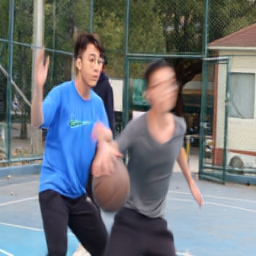
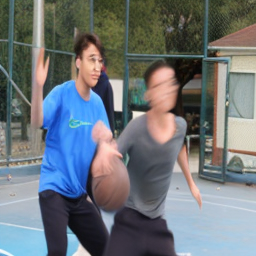
try increase matmul precision

diff --git a/rqvae/models/klvae/__init__.py b/rqvae/models/klvae/__init__.py
@@ -1,28 +1,31 @@
 from diffusers import AutoencoderKL
 from ..interfaces import *
 class Stage1_KLVAE(Stage1Model):
-    def __init__(self, ckpt_path:str):
+    def __init__(self, ckpt_path:str, sample:bool = True):
         super().__init__()
         #ckpt_path = f'stabilityai/sd-vae-ft-{vae_type}'
         vae = AutoencoderKL.from_pretrained(ckpt_path)
         vae: AutoencoderKL
         self.vae = vae
+        self.sample = sample
     def forward(self, inputs: LabeledImageData):
         x = inputs.img
-        x = x.mul_(2).sub_(1)
-        x = self.vae(x).sample
-        x = x.mul_(0.5).add_(0.5)
+        x = x * 2 - 1
+        x = self.vae(x).sample 
+        x = x * .5 + .5
         return Stage1ModelOutput(xs_recon=x, additional_attr={})
     def encode(self, inputs: LabeledImageData):
         x = inputs.img
-        x = x.mul_(2).sub_(1)
-        x = self.vae.encode(x).latent_dist.sample().mul_(0.18215)
+        x = x * 2 - 1
+        x = self.vae.encode(x).latent_dist
+        x = x.sample() if self.sample else x.mean
+        x = x * .18215
         return Stage1Encodings(zs=x, additional_attr={})
     def decode(self, outputs: Stage1Encodings):
         z = outputs.zs if isinstance(outputs, Stage1Encodings) else outputs.zs_pred
-        z = z.div_(0.18215)
+        z = z / .18215
         x = self.vae.decode(z).sample
-        x = x.mul_(0.5).add_(0.5)
+        x = x * .5 + .5
         return Stage1ModelOutput(xs_recon=x, additional_attr={})
     def get_last_layer(self):
         return self.vae.decoder.conv_out.weight

diff --git a/sanity_check/stage1_connect.py b/sanity_check/stage1_connect.py
@@ -36,8 +36,10 @@ with torch.no_grad():
     print(last_layer.shape, last_layer.dtype, last_layer.min(), last_layer.max())
     print("=" * 10, 'testing wrapper forward', "=" * 10)
     forward_output = stage1_model_wrapper.forward(data)
-    print(forward_output.xs_recon.shape, forward_output.xs_recon.min(), forward_output.xs_recon.max())
-    print("=" * 10, 'testing forward', "=" * 10)
+    print('forward xs recon (saved in visuals/sanity_forward_recon.png ):', forward_output.xs_recon.shape, forward_output.xs_recon.min(), forward_output.xs_recon.max())
+    recon_image = ToPILImage()(forward_output.xs_recon[0].clamp(0., 1.))
+    recon_image.save('./visuals/sanity_forward_recon.png')
+    print("=" * 10, 'testing stage1 model forward', "=" * 10)
     output = stage1_model.forward(data)
     print(f'forward xs recon: shape: {output.xs_recon.shape}, min: {output.xs_recon.min()}, max: {output.xs_recon.max()} mean: {output.xs_recon.mean()} norm: {output.xs_recon.norm()}')
     print("=" * 10, 'testing encoding', "=" * 10)
@@ -53,7 +55,7 @@ with torch.no_grad():
     print("=" * 10, 'testing decoding (on stage1 encoding)', "=" * 10)
     recon_output = stage1_model.decode(reverse_output)
     recon = recon_output.xs_recon
-    print(recon.shape, recon.min(), recon.max())
+    print('recon:( saved in visuals/sanity_recon.png )', recon.shape, recon.min(), recon.max())
     recon_image = ToPILImage()(recon[0].clamp(0., 1.))
     recon_image.save('./visuals/sanity_recon.png')
     print("=" * 10, 'testing stage1 loss', "=" * 10)

diff --git a/rqvae/models/connectors/__init__.py b/rqvae/models/connectors/__init__.py
@@ -210,6 +210,8 @@ class RandomUpsample_Connector(base_connector):
         reverse_weight = torch.pinverse(linear_weight)
         self.reverse_linear = nn.Linear(output_hidden_channel, input_hidden_channel, bias=False)
         self.reverse_linear.weight.data = reverse_weight
+        #nn.init.constant_(self.linear.bias, 0)
+        #nn.init.constant_(self.reverse_linear.bias, 0)
         self.reverse_linear.requires_grad_(False)
         self.linear.requires_grad_(False) # do not update the weights
         self.dummy_sample = dummy_sample
@@ -217,6 +219,12 @@ class RandomUpsample_Connector(base_connector):
         zs = encodings.zs
         # do channel last transform
         zs = zs.permute(0,2,3,1).contiguous() # [B, H, W, C]
+        #lineared_zs = self.linear(zs)
+        #reverse_zs = self.reverse_linear(lineared_zs)
+        #abs_diff = torch.abs(reverse_zs - zs).sum()
+        #relative_diff = abs_diff / zs.abs().sum()
+        #print('abs_diff:', abs_diff, 'relative_diff:', relative_diff)
+        #assert torch.allclose(reverse_zs, zs, atol = 1e-6), 'reverse should be the same as input, difference: {}'.format(torch.#abs(reverse_zs - zs).sum())
         zs = self.linear(zs)
         zs = zs.permute(0,3,1,2).contiguous()
         return Stage1Encodings(zs=zs, additional_attr=encodings.additional_attr)

diff --git a/debug/test_acc.py b/debug/test_acc.py
@@ -1,0 +1,43 @@
+import torch_xla.core.xla_model as xm
+device = xm.xla_device()
+import torch
+import torch.nn as nn
+import torch_xla
+linear_layer = nn.Linear(2, 2)
+print(linear_layer.weight.dtype)
+#torch_xla._XLAC._xla_set_mat_mul_precision('high')
+print(torch.get_float32_matmul_precision())
+def print_tensor(x: torch.Tensor, precision: int = 4, in_bf16: bool = False):
+    # print x with precision as matrix
+    assert x.dim() == 2
+    if in_bf16:
+        bf16_unit = 0.0078125
+    else:
+        bf16_unit = 1.
+    for row in x:
+        print(' '.join([f'{val/bf16_unit:.{precision}f}' for val in row.tolist()]))
+        
+x = torch.randn(2, 2)
+
+weight = torch.eye(2) # identity matrix
+
+id_x = x
+
+x = x @ weight
+
+assert torch.allclose(x, id_x), f"[CPU]Expected {id_x} but got {x}"
+x = torch.randn(2, 2, device=device)
+linear_layer = nn.Linear(2, 2).to(device)
+weight = linear_layer.weight
+pweight = torch.pinverse(weight)
+id_mat = weight @ pweight
+print_tensor(id_mat, 10)
+id_x = x
+x = x @ id_mat
+x = x.cpu()
+id_x = id_x.cpu()
+if not torch.allclose(x, id_x):
+    print('[TPU]Expected:')
+    print_tensor(id_x,10, True)
+    print('[TPU]Got:')
+    print_tensor(x,10, True)

diff --git a/main_stage2.py b/main_stage2.py
@@ -23,6 +23,7 @@ import time
 from rqvae.trainers import TrainerStage2
 from rqvae.models.interfaces import Stage2ModelWrapper
 import torch_xla.distributed.xla_multiprocessing as xmp
+xla._XLAC._xla_set_mat_mul_precision('highest') # set precision to high to assure accuracy
 CACHE_DIR = '/home/bytetriper/.cache/xla_compile'
 project_name = 'tmp'
 cache_path = os.path.join(CACHE_DIR, project_name)
@@ -105,7 +106,9 @@ def main(rank, args, extra_args):
     xm.master_print(f'[!]model loaded')
     if distenv.master:
         print(model)
+        print(f'[!]model dtype: {next(model.parameters()).dtype}')
         compute_model_size(model, logger)
+    
     if distenv.master and not is_eval:
         logger.info(optimizer.__repr__())
     model = dist_utils.dataparallel_and_sync(distenv, model)

diff --git a/rqvae/models/MAE/__init__.py b/rqvae/models/MAE/__init__.py
@@ -667,6 +667,7 @@ class Stage1MAEwConvNextDCAE(Stage1Model):
     def train(self, mode: bool = True):
         super().train(mode)
         self.model.vit.train(False) # freeze the encoder
+        self.model.decoder.decoder_embed.train(False) # freeze the decoder embed
 class Stage1MAEwBottleNeck(Stage1Model):
     def __init__(self, ckpt_path:str, mask_ratio: float = 0., train_encoder:bool = False, no_cls:bool = False, mlp_layers:int = 0, mlp_ratio:float = 4, bottleneck_ratio:float = 4)->None:
         super().__init__()

diff --git a/rqvae/trainers/trainer.py b/rqvae/trainers/trainer.py
@@ -12,8 +12,6 @@
 # See the License for the specific language governing permissions and
 # limitations under the License.
 
-from enum import auto
-from math import ceil
 import os
 import logging
 import random
@@ -22,7 +20,6 @@ import numpy as np
 import torch
 from tqdm import tqdm
 from torch.utils.data.dataloader import DataLoader
-from torch.cuda.amp import GradScaler
 from torch_xla.distributed.parallel_loader import ParallelLoader
 import torch.distributed as dist
 import torch_xla.core.xla_model as xm

diff --git a/main_stage1.py b/main_stage1.py
@@ -22,6 +22,7 @@ from rqvae.utils.setup import setup , wandb_dir
 #wandb.require('core')
 import time
 import torch_xla.distributed.xla_multiprocessing as xmp
+xla._XLAC._xla_set_mat_mul_precision('highest') # set precision to high to assure accuracy
 CACHE_DIR = '/home/bytetriper/.cache/xla_compile'
 project_name = 'tmp'
 cache_path = os.path.join(CACHE_DIR, project_name)
